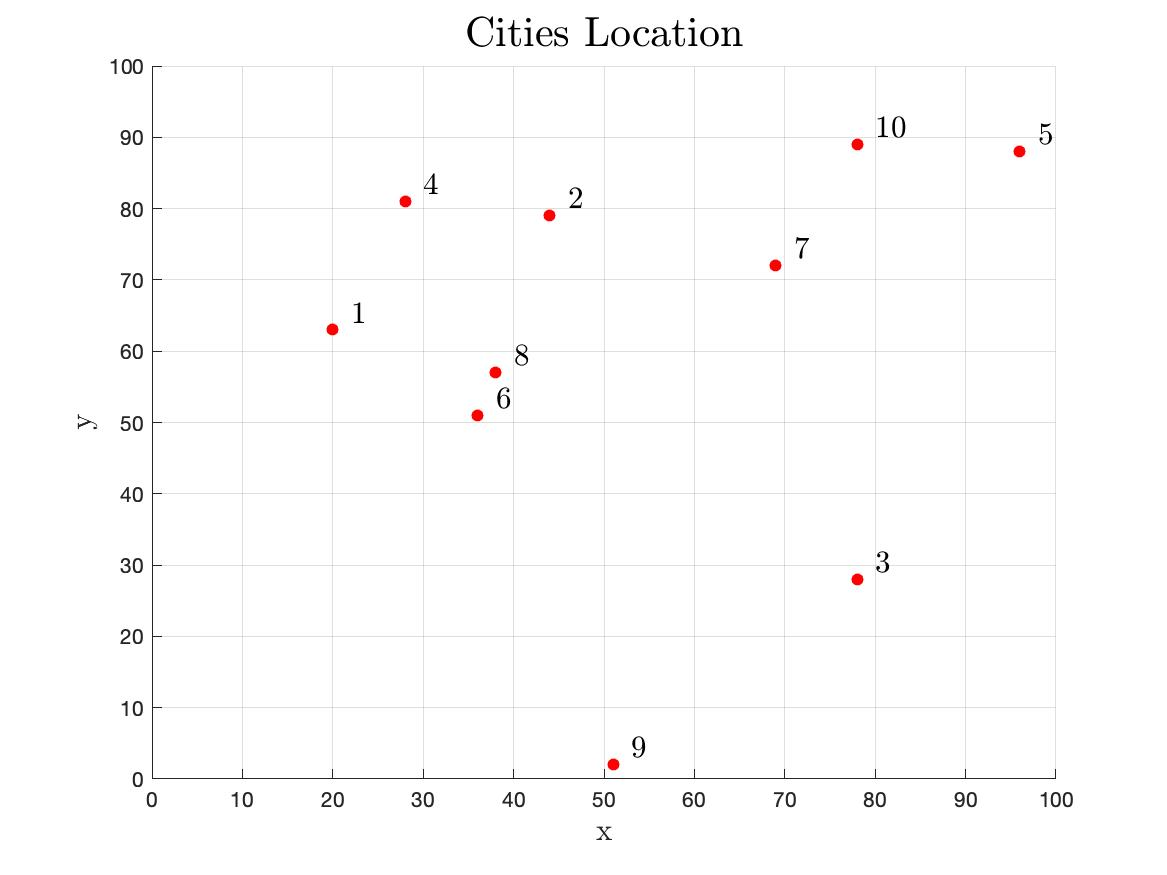
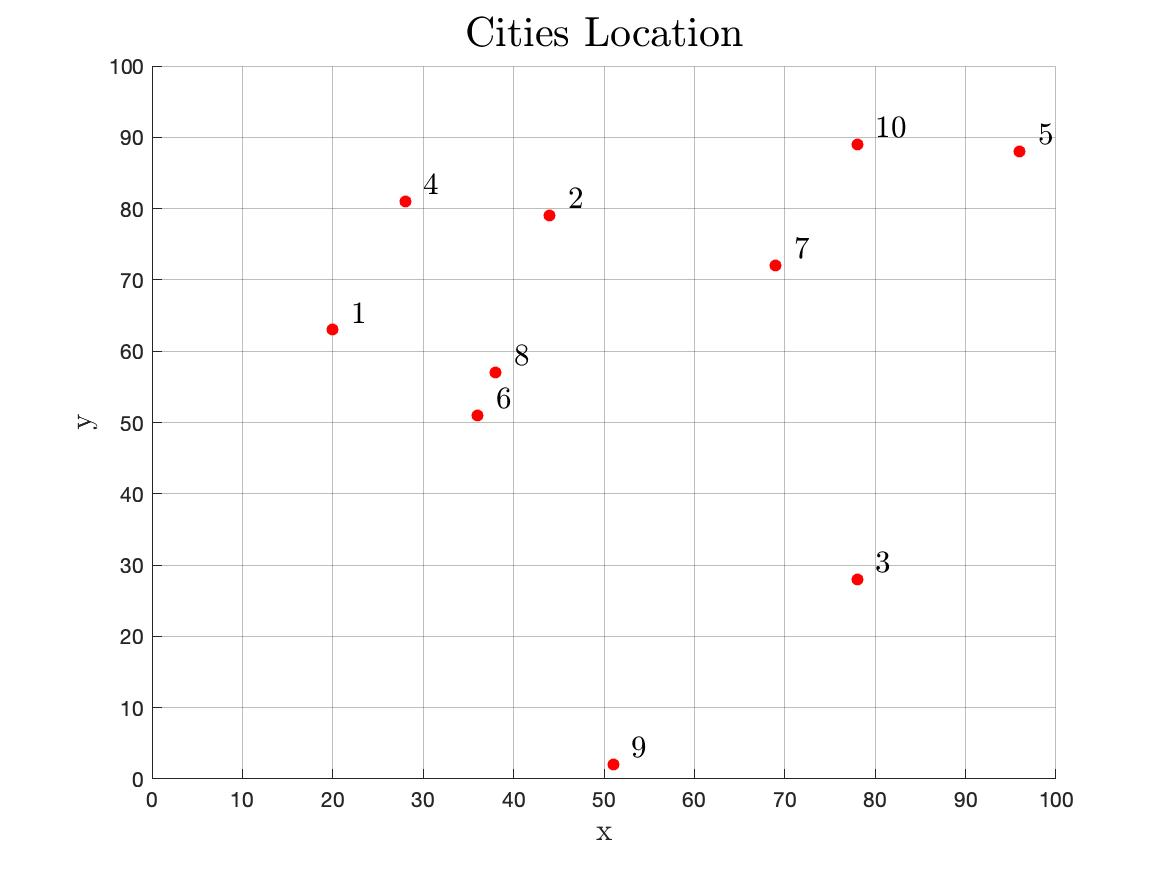
Change grid
Increase grid alpha

diff --git a/src/main.m b/src/main.m
@@ -41,6 +41,8 @@ xlabel('x', 'FontSize', 15)
 ylabel('y', 'FontSize', 15)
 title('Cities Location', 'FontSize', 20)
 grid on;
+ax = gca;
+ax.GridAlpha = 0.3;
 saveas(fig1, '../images/cities_location.jpg');
 
 % Create distance matrix
@@ -84,11 +86,13 @@ for iIteration = 1:nIterations
     
     % Plot path length
     fig2 = figure(2);
-    plot(1:iIteration, optimalPathIterations(1:iIteration),'b');
+    plot(1:iIteration, optimalPathIterations(1:iIteration),'b','LineWidth', 2);
     xlabel('iterations', 'FontSize', 15)
     ylabel('path length', 'FontSize', 15)
     title('Path Convergence', 'FontSize', 20)
     grid on;
+    ax = gca;
+    ax.GridAlpha = 0.3;
     pause(0.05);
     drawnow;
     
@@ -122,6 +126,8 @@ xlabel('x', 'FontSize', 15)
 ylabel('y', 'FontSize', 15)
 title('Final Network', 'FontSize', 20)
 grid on;
+ax = gca;
+ax.GridAlpha = 0.3;
 saveas(fig3, '../images/final_network.jpg');
 
 % Plot the best path
@@ -144,4 +150,6 @@ xlabel('x', 'FontSize', 15)
 ylabel('y', 'FontSize', 15)
 title('Best Path', 'FontSize', 20)
 grid on;
+ax = gca;
+ax.GridAlpha = 0.3;
 saveas(fig4, '../images/best_path.jpg');
